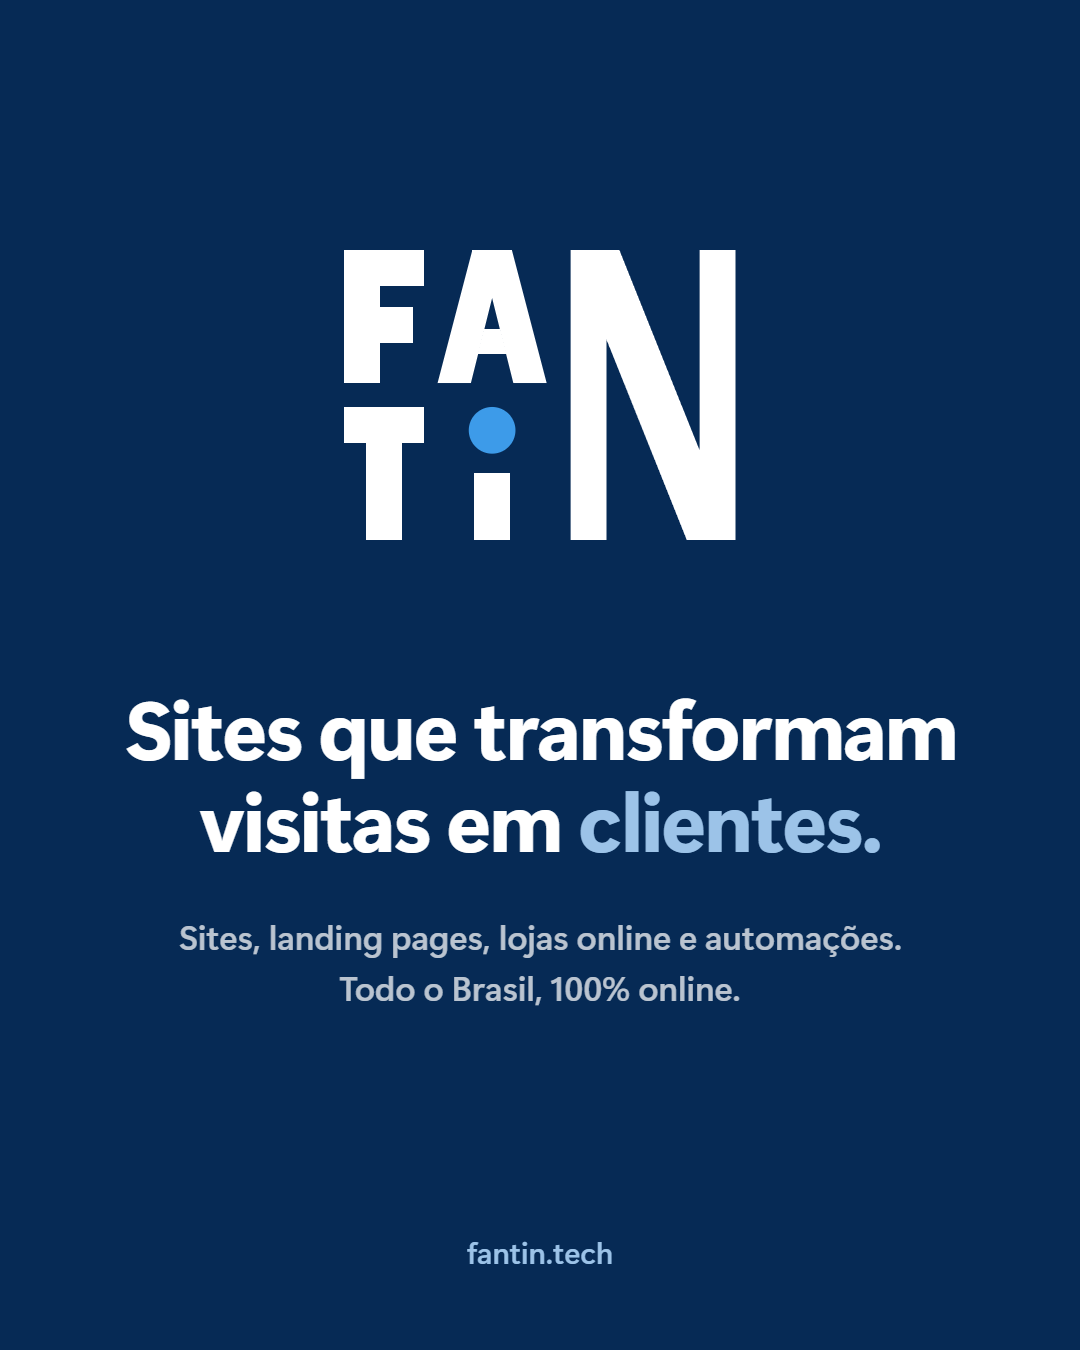
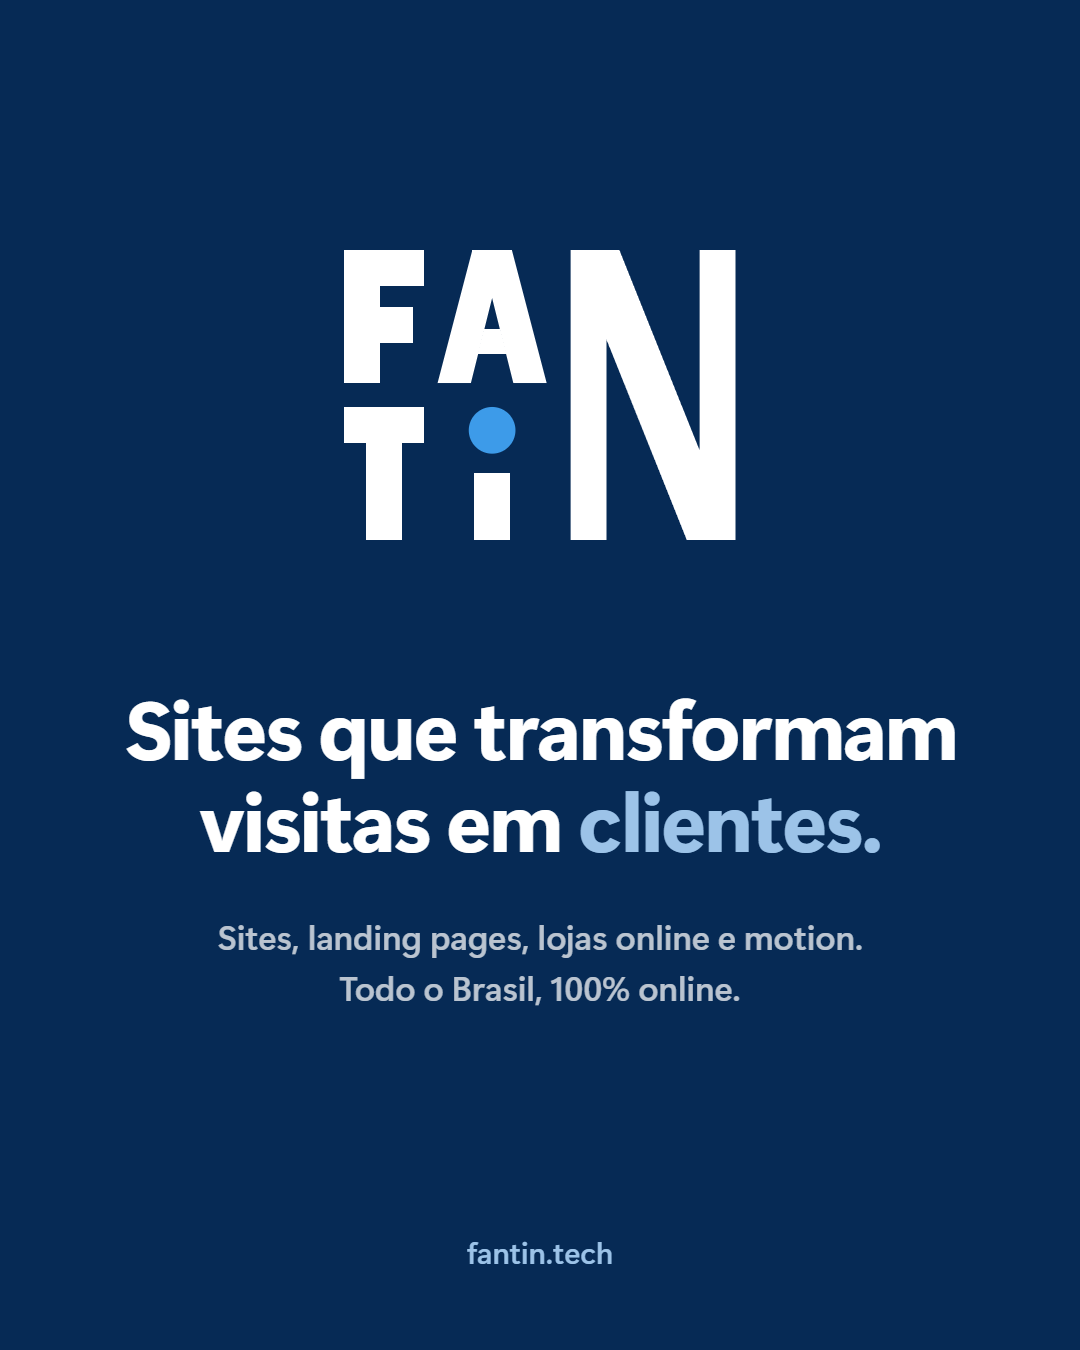
Post 01 do Instagram: troca automações por motion e publica a imagem em /ig

Changed region(s): [[0.1528, 0.6844, 0.825, 0.7156]]

diff --git a/marca/posts.html b/marca/posts.html
@@ -93,7 +93,7 @@ add('01-apresentacao', 'Apresentação', [(ctx) => {
   const mh = 290, mw = monoWidth(mh)
   drawMonogram(ctx, (W - mw) / 2, 250, mh, C.white, C.bright)
   lines(ctx, [[['Sites que transformam', C.white]], [['visitas em ', C.white], ['clientes.', C.sky]]], W / 2, 760, 82, C.white, 1.12, 700, 'center')
-  lines(ctx, ['Sites, landing pages, lojas online e automações.', 'Todo o Brasil, 100% online.'], W / 2, 950, 34, 'rgba(255,255,255,.72)', 1.5, 500, 'center', 0)
+  lines(ctx, ['Sites, landing pages, lojas online e motion.', 'Todo o Brasil, 100% online.'], W / 2, 950, 34, 'rgba(255,255,255,.72)', 1.5, 500, 'center', 0)
   line(ctx, [[SITE, C.sky]], W / 2, H - M + 10, 30, 600, 'center', 0)
 }])
 
